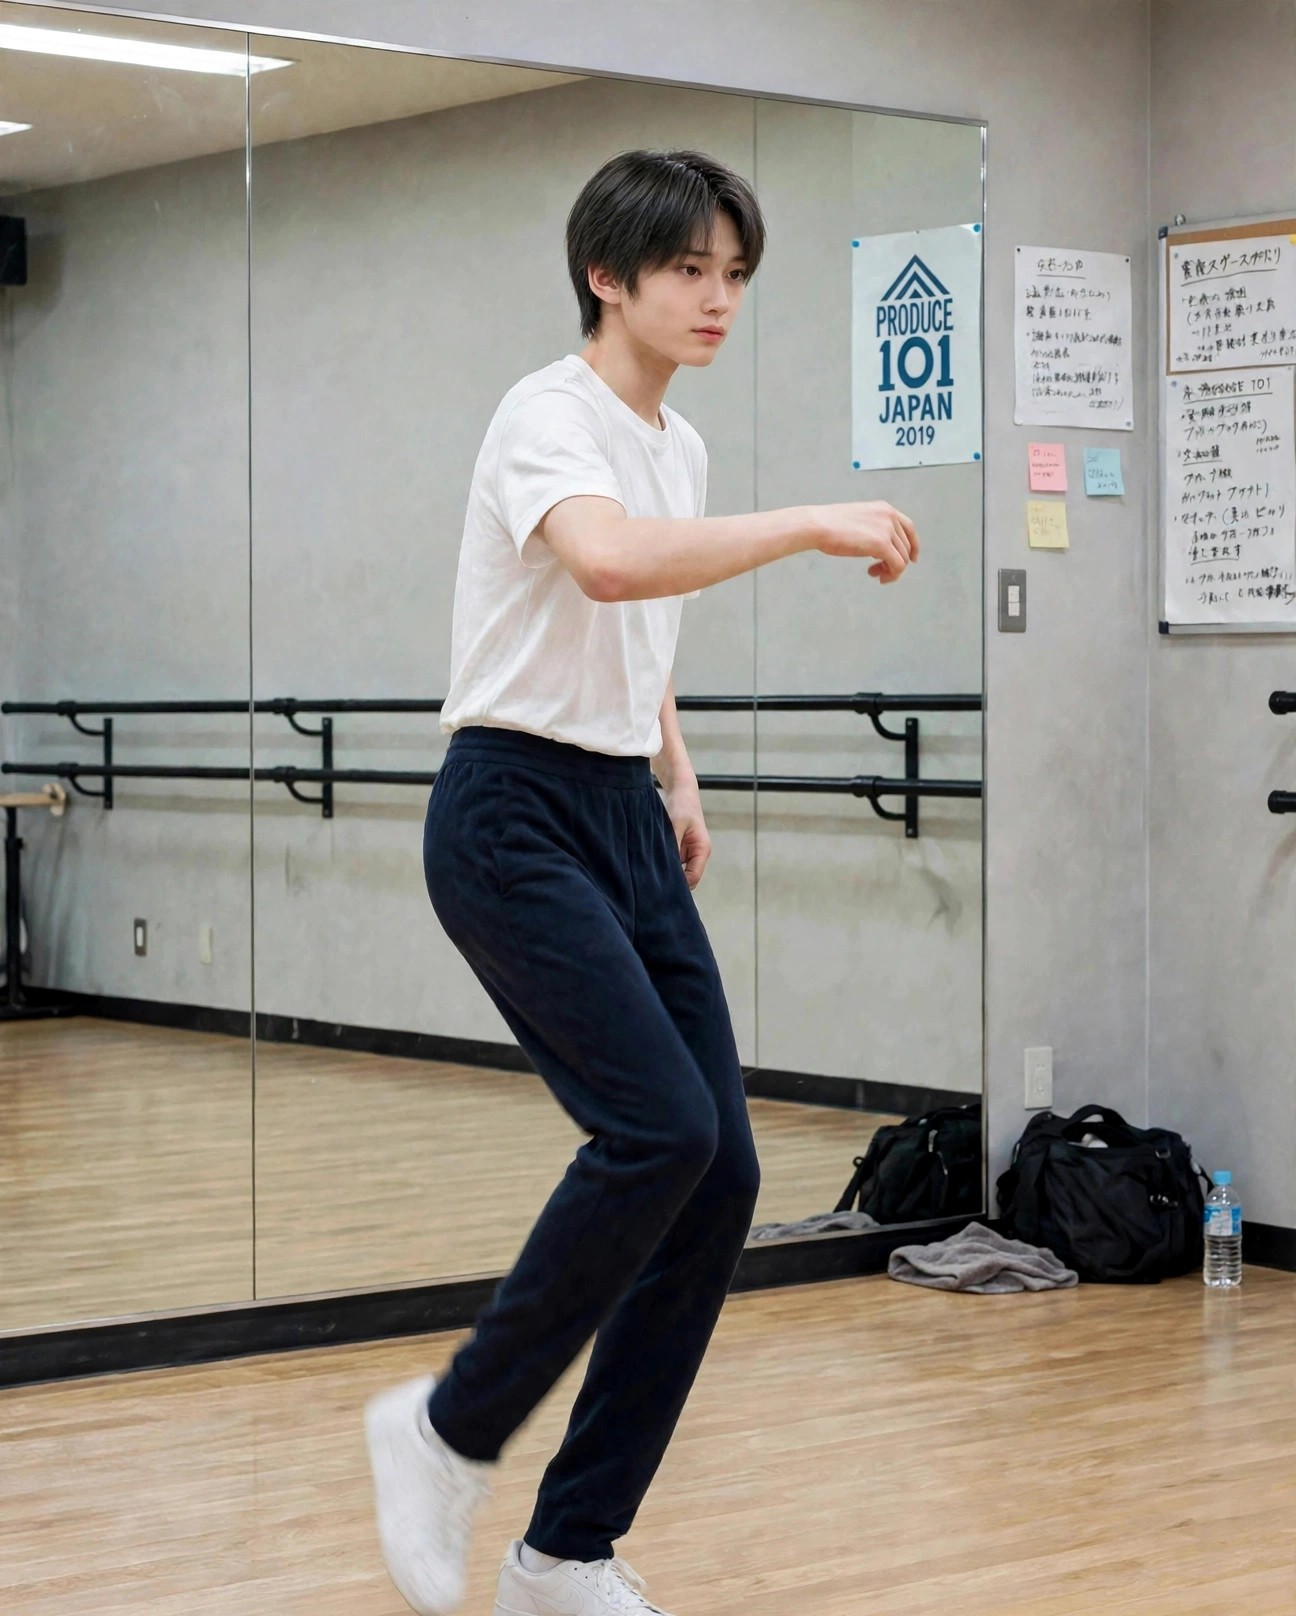
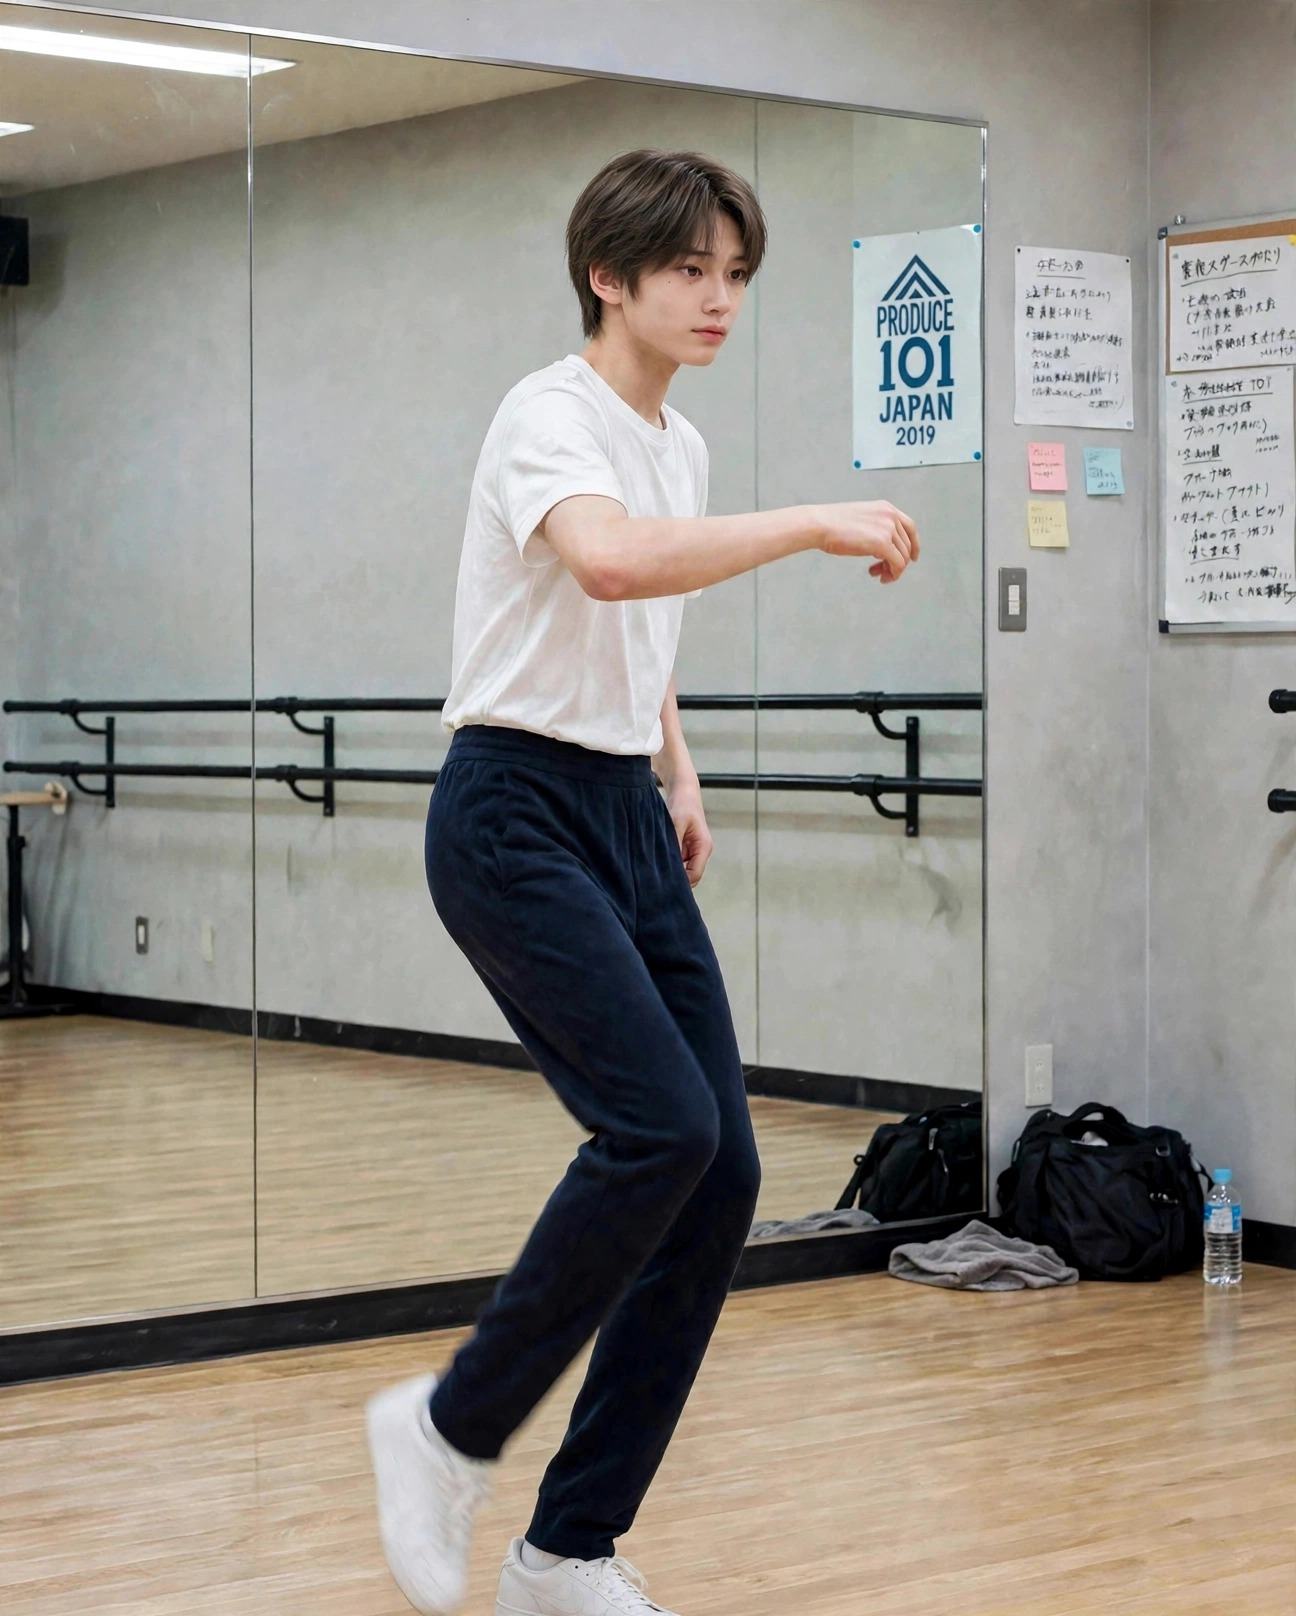
v160: 練習室カット2点のプロポーションを自然な範囲に再修正（脚は長め＋自然な太さ）＋プロポーション／鼻の監査ルールを記録

diff --git a/index.html b/index.html
@@ -806,7 +806,7 @@ body{font-family:-apple-system,"Hiragino Kaku Gothic ProN","Noto Sans JP",sans-s
 <script>
 "use strict";
 const $=s=>document.querySelector(s);
-const VER="v159";
+const VER="v160";
 /* ============ state ============ */
 const DEF={idx:0,started:false,consented:false,soundOn:true,
  g:{iwakan:0,bare:0,todoita:0,uta:8,dance:4,ishi:50},

diff --git a/docs/ASSETS_NAO.md b/docs/ASSETS_NAO.md
@@ -80,7 +80,7 @@
 - 2021 = 2019と2023の中間＋創造営制服＋背景は屋外（島・海）。たたき台 `assets/nao/2021/profile-uniform-outdoor.jpg`
 - 2023 = `assets/nao/2023/profile-final.jpg`：大人の顔（眉細め・鼻柱細め・二重幅は広すぎない・顎短め・**耳は普通の形**）。制服は本物仕様＝グレーのブレザー＋**片襟だけ淡ピンク（非対称）**＋ピンクのリボンタイ。紺襟ネクタイ版と両襟ピンク版は誤りとして使用禁止
 - 現在編 = 黒ニットの参照写真の顔
-- 全身カットは全時代「スタイル抜群」のプロポーション（脚長・細身・モデル体型）で生成する
+- 全身カットは全時代「スタイルが良いが自然な人間の範囲」のプロポーションで生成する（2026-11-09 本人指摘で更新：脚は長めでも太もも・ふくらはぎに自然な筋肉の太さを保つ。痩せすぎ・棒のような脚・不自然に細長い体型は禁止。健康的な細身のアイドル体型＝華奢すぎない）
 - 旧 face2 系と face3初版（2019）は新ラインに置き換え次第、使用禁止へ移す
 
 ## 2026-11-09 13:07 顔分析（本人の指摘：今の男装の顔は本人の顔から成長した顔になっていない）
@@ -126,4 +126,11 @@
 ## 実機フィードバック修正（2026-11-09 v154・v155）
 - 全身カットは「スタイル抜群」が効いていないと短足に見える。2019/2021の練習室カットを脚長・細身のモデル体型（8頭身・高い腰位置・細身パンツ）で再生成した。今後、全身カットは生成直後に脚の比率を必ず目視確認すること（パンツの太さ・丈・ポーズで短く見える場合も差し替え対象）
 - 鼻は基準顔の「小さくちゅんとした鼻」が正。2019 stage（ガッツポーズ）と ranking-close は鼻が大きく生成されていたため、細い鼻筋＋小さく少し上向きの丸い鼻先＋狭い小鼻に寄せて再生成した。他の寄りカットは全点検し基準内を確認済み。今後も寄りカットは鼻の大きさを基準と比較すること
+
+## 2026-11-09 顔の全面監査（本人の指示）とプロポーション再修正
+- 表示参照のある渚央の顔画像 全29点（2019:9／2021:9／2023:11）を standard-final と拡大比較で監査。26点は一致、3点が逸脱 → v159で再生成：2019 stage2（顔が長く鼻が大きく鋭い目つき＝鋳型寄り）、2021 ranking-close（鼻が大きめ・目がシャープ・顔がやや長め）、2023 daily（横顔の鼻が大きく顔が長め）
+- **鼻の監査は両方向**（本人の追加指摘）：大きすぎだけでなく「小さすぎ」も逸脱。拡大判定可能な全カットで両方向を確認し、「小さすぎ」は検出されなかった（遠景で顔の小さいカットは判定対象外）
+- og画像は 2019 stage 由来で一致。common 3点（audience-back／room／livehouse）は顔が出ないことを確認
+- v160：v154の脚長補正が過剰だった 2021練習室（本人が「細すぎて不自然」と指摘）と 2019練習室（同じ過剰補正を確認）を、「脚は長め＋自然な太さ」の新基準で再生成。全身カット全点の「細すぎ」チェックも実施し、他は自然な範囲内を確認（2019プロフィール全身／2023 nxd-night／2023 practice／2023 stage 等）
+- 旧カットは hidden_files/nao-faceaudit-backup/ に保管
 - 修正前の画像は hidden_files/nao-fix-backup/ に保管
